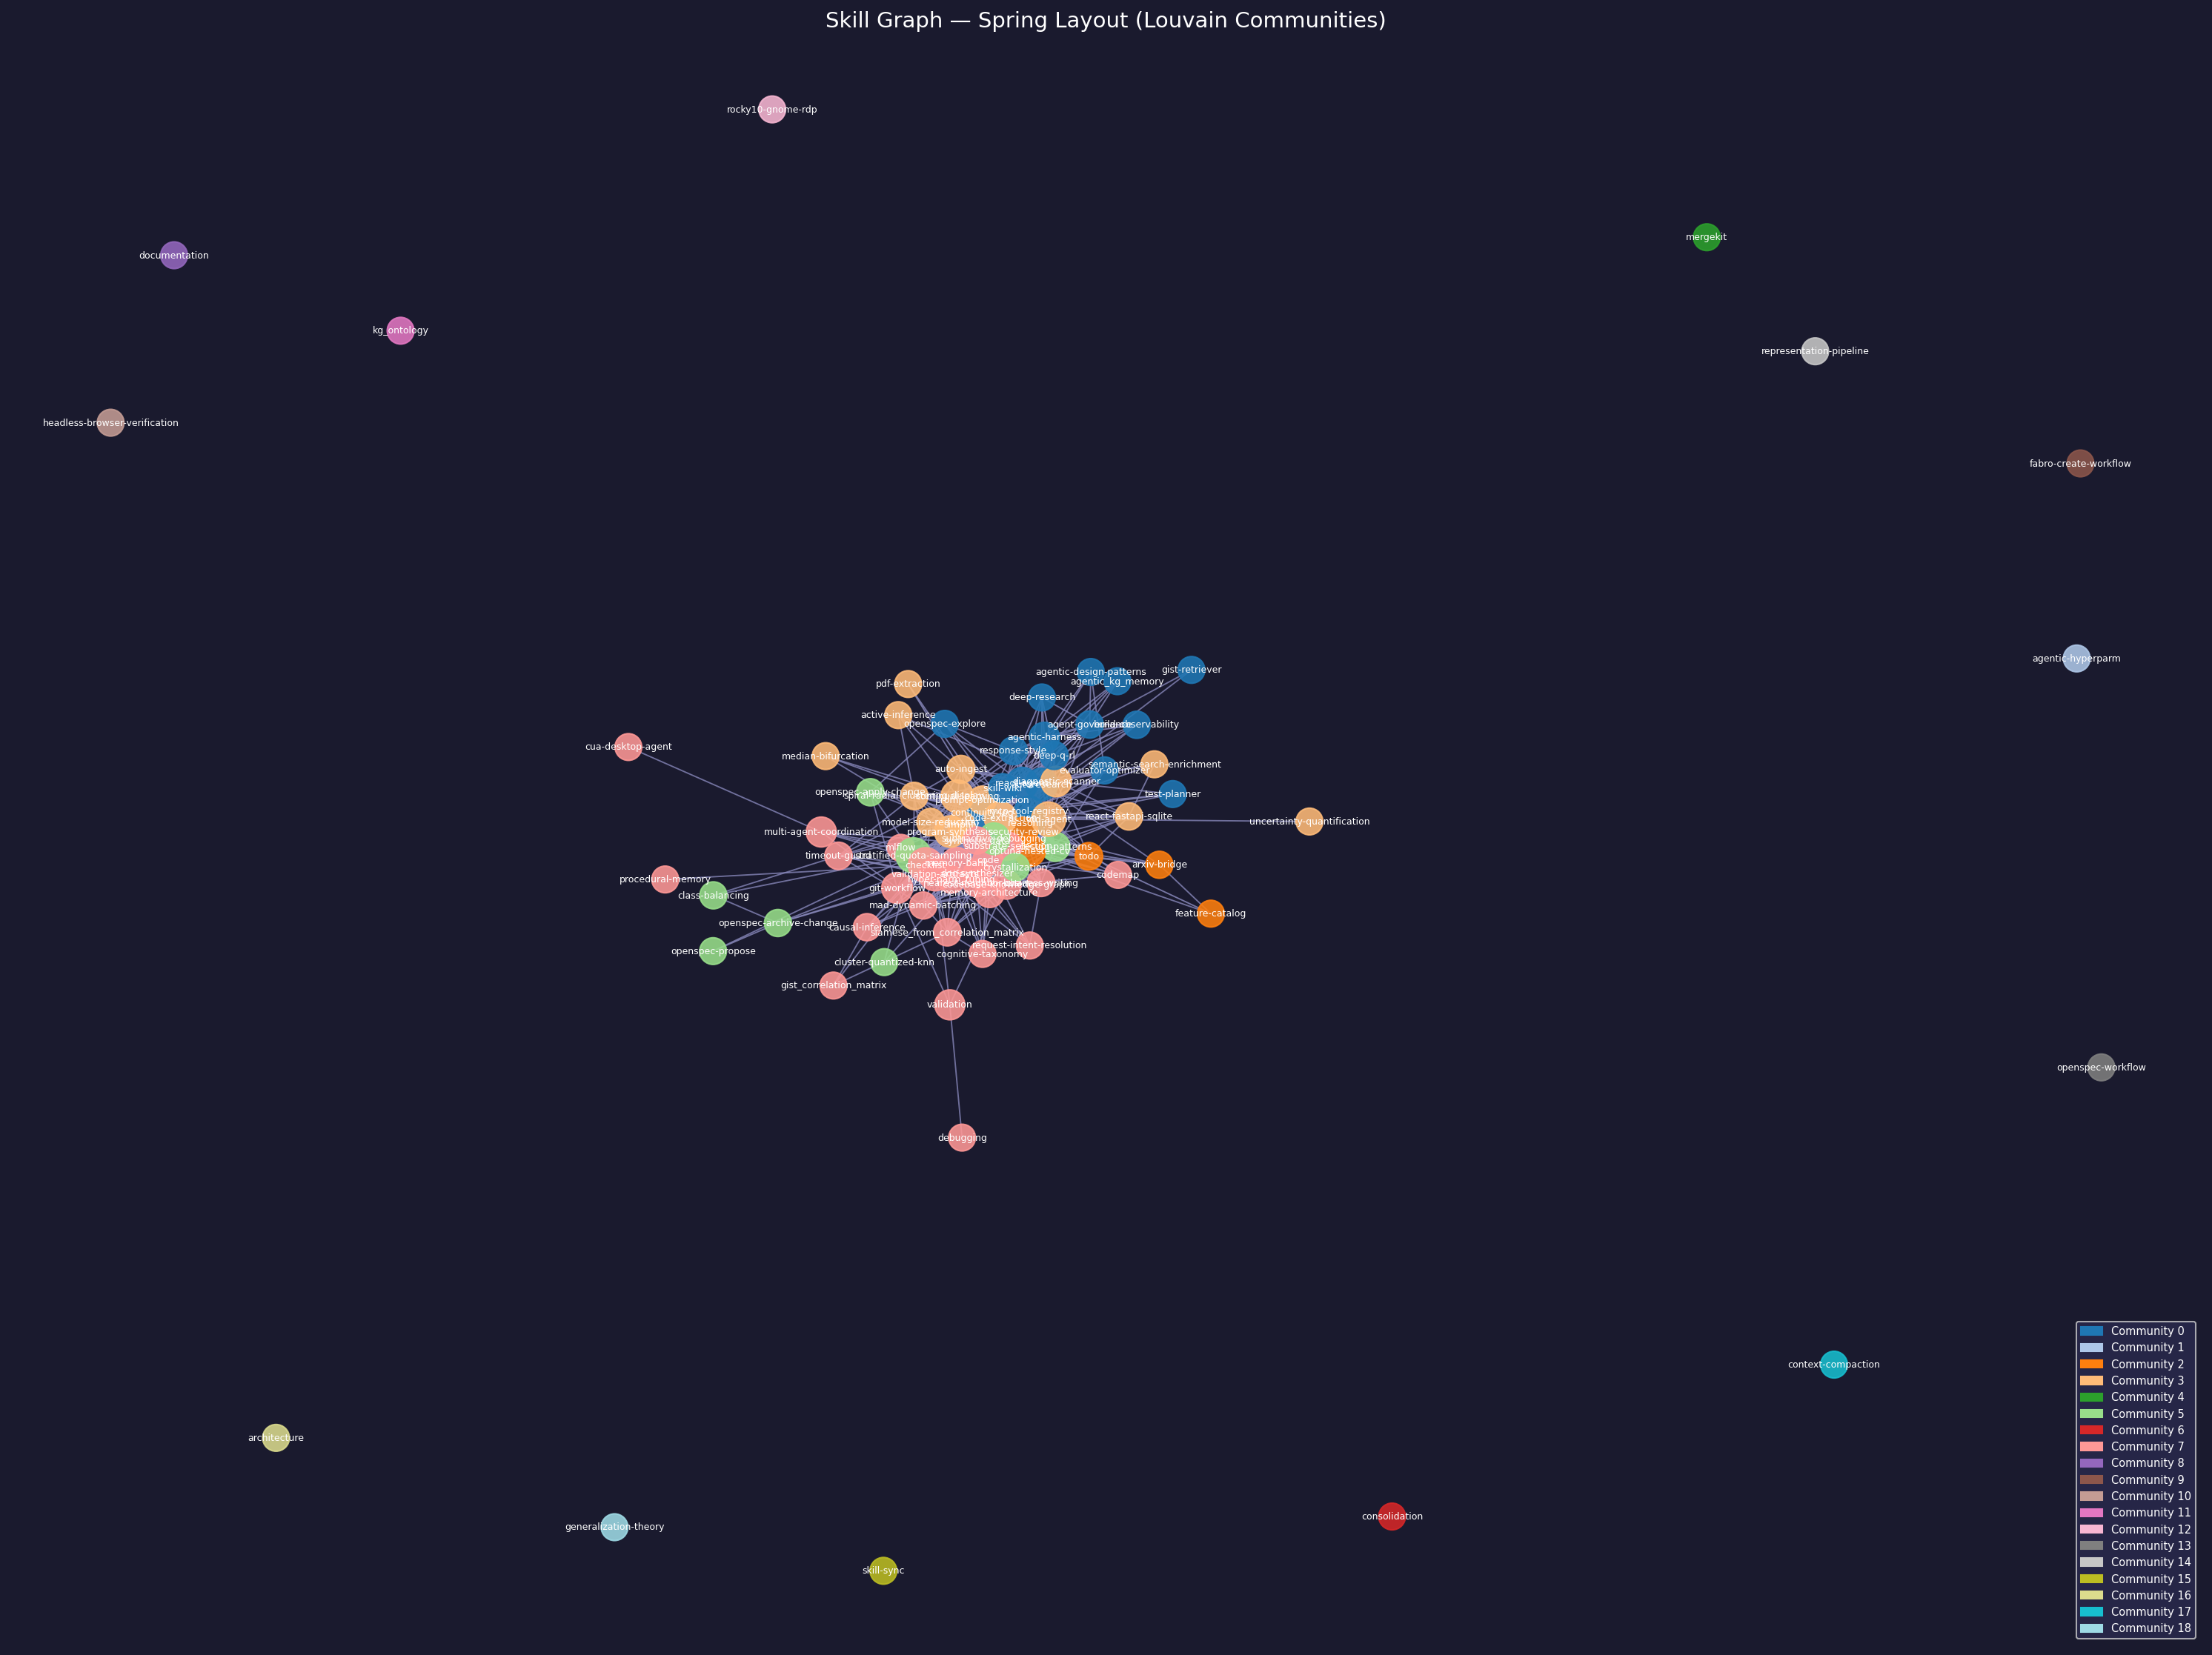
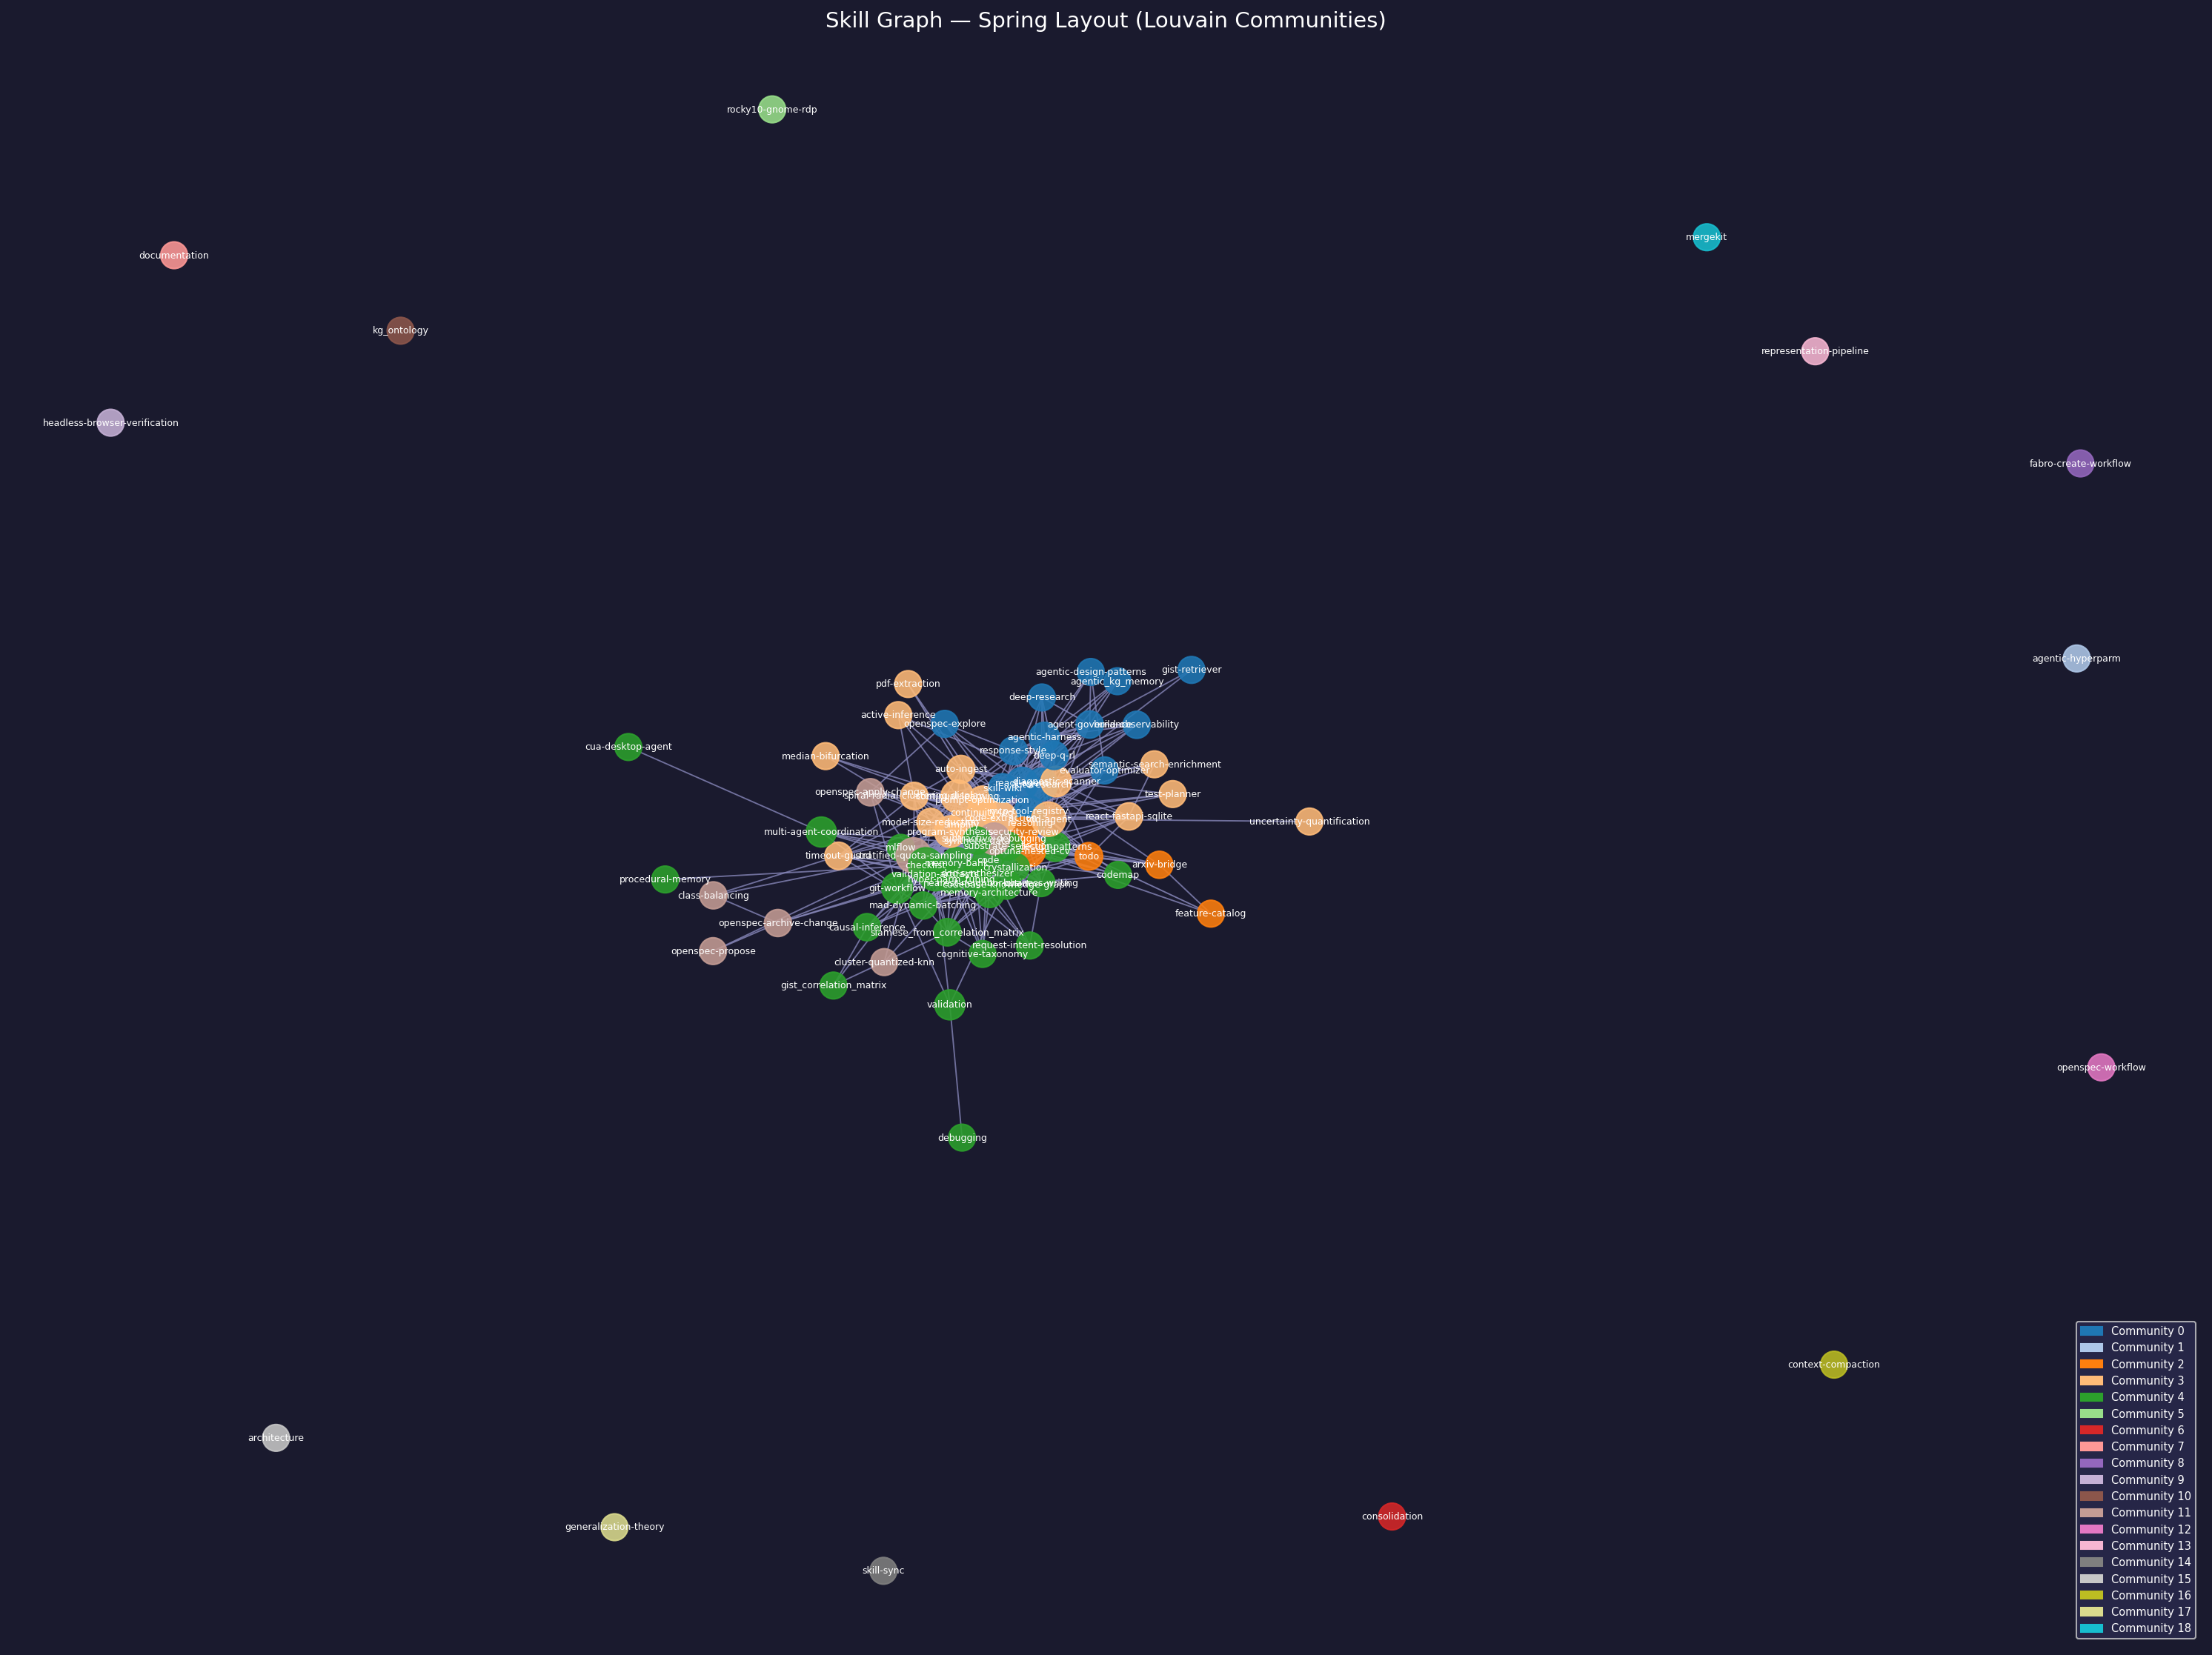
feat(consolidation): add observer LLM disposition to graph analysis
- observer_disposition(): per-community LLM calls for large communities
  (size >= 4); rule-based fallback for singletons and small groups
- _call_llm_observer(): curl-based helper with qwen3.5:0.8b / qwen2.5-coder
  fallback chain; strips <think> reasoning blocks
- --observe flag on CLI; run_graph_analysis(observe=True) kwarg
- Fix print_observer_prompt Unicode arrows -> ASCII (console encoding fix)
- Strip [] brackets from model disposition tokens
- output: graph_disposition.txt alongside graph_report.json and graph.png
- import os was missing from graph_analysis.py (fixes NameError)

diff --git a/consolidation/graph_analysis.py b/consolidation/graph_analysis.py
@@ -21,6 +21,7 @@ Assert:    at least 3 skills with embeddings before analysis begins
 import argparse
 import json
 import math
+import os
 import sqlite3
 import sys
 from pathlib import Path
@@ -441,10 +442,10 @@ COMMUNITIES (sorted by size desc):""")
     print(f"""
 DISPOSITION TASK  (optionally verify against graph.png spring layout):
 For each community, decide:
-  CONSOLIDATE  — high density + low conductance  (redundant → merge/migrate)
-  CROSS-REF    — moderate density                (related → See Also links)
-  KEEP         — low density or high conductance (genuinely separate)
-  INSPECT      — bridge skill (high betweenness) — may be cross-cutting or misclassified
+  CONSOLIDATE  - high density + low conductance  (redundant -> merge/migrate)
+  CROSS-REF    - moderate density                (related -> See Also links)
+  KEEP         - low density or high conductance (genuinely separate)
+  INSPECT      - bridge skill (high betweenness) - may be cross-cutting or misclassified
 
 OUTPUT FORMAT:
   Community <N>: [CONSOLIDATE|CROSS-REF|KEEP|INSPECT]
@@ -464,20 +465,24 @@ def run_graph_analysis(
     threshold_method: str = "significance",
     alpha: float = 0.05,
     sig_correction: str = "bonferroni",
+    observe: bool = False,
 ) -> dict:
     """Full analysis pipeline.
 
     Require:  db_path contains skill_derivations with embedding_json;
               numpy, networkx, sklearn, scipy, matplotlib available
-    Guarantee: returns report dict; writes graph_report.json (+ graph.png if render)
+    Guarantee: returns report dict; writes graph_report.json (+ graph.png if render,
+               + graph_disposition.txt if observe)
     Maintain:  .checkpoint.db is not modified
     Assert:    N >= 3 skills with embeddings
 
     tau:              explicit threshold (overrides threshold_method when provided)
-    threshold_method: 'significance' (default) — Pearson r t-test, Bonferroni/BH corrected
-                      'percentile'   — 85th pct of pairwise cosines (fallback)
+    threshold_method: 'significance' (default) — empirical z-score above background,
+                      Bonferroni/BH corrected; falls back to 85th-pct if too strict
+                      'percentile'   — 85th pct of pairwise cosines (explicit fallback)
     alpha:            significance level for threshold_method='significance' (default 0.05)
     sig_correction:   'bonferroni' (default, conservative) or 'fdr_bh' (Benjamini-Hochberg)
+    observe:          if True, call observer LLM for community disposition after analysis
     """
     out_dir = out_dir or db_path.parent
 
@@ -603,7 +608,197 @@ def run_graph_analysis(
     print(f"Report saved -> {report_path}")
 
     print_observer_prompt(report)
+    if observe:
+        try:
+            observer_disposition(report, out_dir)
+        except RuntimeError as exc:
+            print(f"  [observer] LLM call failed: {exc}")
+            print("  Re-run with Ollama running, or set LLM_BASE_URL to another endpoint.")
     return report
+
+
+# ---------------------------------------------------------------------------
+# Observer LLM disposition
+# ---------------------------------------------------------------------------
+
+def _call_llm_observer(prompt: str, max_tokens: int = 1200) -> str:
+    """Call local Ollama LLM for observer disposition. Returns raw text.
+
+    Require:  Ollama running at LLM_BASE_URL (default http://localhost:11434/v1)
+    Guarantee: returns non-empty text after <think> stripping
+    Maintain:  falls back through model list; raises RuntimeError if all fail
+    """
+    import re as _re
+    import shutil
+    import subprocess
+
+    base_url = os.environ.get("LLM_BASE_URL", "http://localhost:11434/v1")
+    api_key = os.environ.get("LLM_API_KEY", "ollama")
+    env_model = os.environ.get("LLM_MODEL", "qwen3.5:0.8b")
+    models = list(dict.fromkeys(m for m in [env_model, "qwen2.5-coder:1.5b"] if m))
+
+    endpoint = f"{base_url.rstrip('/')}/chat/completions"
+    curl_bin = shutil.which("curl.exe") or shutil.which("curl")
+    if not curl_bin:
+        raise RuntimeError("curl is required for local LLM calls")
+
+    last_err: Exception | None = None
+    for model in models:
+        payload = json.dumps({
+            "model": model,
+            "messages": [{"role": "user", "content": prompt}],
+            "temperature": 0.0,
+            "max_tokens": max_tokens,
+        })
+        try:
+            result = subprocess.run(
+                [curl_bin, "-sS", endpoint,
+                 "-H", "Content-Type: application/json",
+                 "-H", f"Authorization: Bearer {api_key}",
+                 "--data-binary", "@-"],
+                input=payload.encode(),
+                capture_output=True,
+                timeout=120,
+            )
+        except subprocess.TimeoutExpired as exc:
+            last_err = exc
+            continue
+        if result.returncode != 0:
+            last_err = RuntimeError(result.stderr.decode(errors="replace"))
+            continue
+        try:
+            data = json.loads(result.stdout)
+            content = data["choices"][0]["message"]["content"].strip()
+            if not content:
+                last_err = RuntimeError(f"model {model} returned empty content")
+                continue
+            content = _re.sub(r"<think>.*?</think>", "", content, flags=_re.DOTALL).strip()
+            if content:
+                return content
+            last_err = RuntimeError(f"model {model} content empty after think-strip")
+        except (KeyError, json.JSONDecodeError) as exc:
+            last_err = exc
+
+    raise last_err or RuntimeError("No LLM response from observer models")
+
+
+def observer_disposition(report: dict, out_dir: Path) -> str:
+    """Run the observer LLM agent on communities; save + return disposition text.
+
+    Require:  report contains louvain.labels, communities, betweenness_top10
+    Guarantee: writes graph_disposition.txt; returns raw disposition text
+    Maintain:  does not modify report dict or any other output file
+
+    Strategy: singletons and rule-deterministic cases are resolved in Python.
+    Large communities (size >= 4) are sent to the LLM one at a time so the
+    0.8b model can focus on a single community's member names.
+    """
+    from collections import defaultdict
+
+    partition: dict[str, int] = report.get("louvain", {}).get("labels", {})
+    communities_metrics: dict[str, dict] = report.get("communities", {})
+    bridge_set = {
+        entry["skill"]
+        for entry in report.get("betweenness_top10", [])[:7]
+        if entry.get("score", 0) > 0
+    }
+
+    # group members by community id
+    groups: dict[int, list[str]] = defaultdict(list)
+    for skill, cid in partition.items():
+        groups[cid].append(skill)
+
+    disposition_lines: list[str] = []
+
+    for cid in sorted(groups):
+        members = sorted(groups[cid])
+        m = communities_metrics.get(str(cid), {})
+        density = m.get("density", 0.0)
+        conductance = m.get("conductance", 0.0)
+        size = len(members)
+        has_bridge = any(s in bridge_set for s in members)
+        bridge_members = [s for s in members if s in bridge_set]
+
+        # rule-based disposition
+        if size == 1:
+            disp = "INSPECT" if has_bridge else "KEEP"
+            rationale = (
+                f"singleton; bridge skill {bridge_members[0]}" if has_bridge
+                else f"singleton; {members[0]} is isolated, no action needed"
+            )
+            disposition_lines.append(f"Community {cid}: {disp} - {rationale}")
+            continue
+
+        if has_bridge:
+            rule_disp = "INSPECT"
+        elif density > 0.8 and conductance < 0.5:
+            rule_disp = "CONSOLIDATE"
+        elif density >= 0.3:
+            rule_disp = "CROSS-REF"
+        else:
+            rule_disp = "KEEP"
+
+        # for small groups (2-3), rule is sufficient
+        if size < 4:
+            b_note = f"; bridge: {', '.join(bridge_members)}" if bridge_members else ""
+            disposition_lines.append(
+                f"Community {cid}: {rule_disp} - size={size}, "
+                f"density={density:.2f}, conductance={conductance:.2f}{b_note}; "
+                f"members: {', '.join(members)}"
+            )
+            continue
+
+        # large community: ask LLM for name-aware rationale
+        b_note = (
+            f" [bridge skills present: {', '.join(bridge_members)}]"
+            if bridge_members else ""
+        )
+        llm_prompt = (
+            f"Skill library community analysis.\n"
+            f"Community {cid}: size={size}, density={density:.3f}, "
+            f"conductance={conductance:.3f}{b_note}\n"
+            f"Members: {', '.join(members)}\n\n"
+            f"Rule-based suggestion: {rule_disp}\n\n"
+            f"Output exactly ONE line:\n"
+            f"Community {cid}: [CONSOLIDATE|CROSS-REF|KEEP|INSPECT] - <one sentence why>\n"
+            f"Confirm or override the suggestion based on whether the member names "
+            f"represent genuinely overlapping skill domains."
+        )
+        try:
+            raw = _call_llm_observer(llm_prompt, max_tokens=120)
+            # grab the first line that starts with "Community N:" and strip format brackets
+            for line in raw.splitlines():
+                stripped = line.strip()
+                if stripped.startswith(f"Community {cid}"):
+                    # remove any [WORD] bracket wrapping the disposition
+                    import re as _re
+                    stripped = _re.sub(r"\[([A-Z\-]+)\]", r"\1", stripped)
+                    disposition_lines.append(stripped)
+                    break
+            else:
+                # fallback: use rule if model didn't produce expected format
+                disposition_lines.append(
+                    f"Community {cid}: {rule_disp} - (LLM did not produce expected format; "
+                    f"rule-based fallback) density={density:.2f}, conductance={conductance:.2f}"
+                )
+        except RuntimeError as exc:
+            disposition_lines.append(
+                f"Community {cid}: {rule_disp} - (LLM error: {exc}; rule-based fallback)"
+            )
+
+    output = "\n".join(disposition_lines)
+    # replace unicode dashes the model may echo
+    output = output.replace("\u2014", "-").replace("\u2013", "-")
+
+    out_path = out_dir / "graph_disposition.txt"
+    out_path.write_text(output, encoding="utf-8")
+    print(f"Disposition saved -> {out_path}")
+    print("\n" + "=" * 72)
+    print("OBSERVER DISPOSITION")
+    print("=" * 72)
+    print(output)
+    print("=" * 72)
+    return output
 
 
 # ---------------------------------------------------------------------------
@@ -628,6 +823,7 @@ examples:
   python graph_analysis.py --correction fdr_bh    # BH-FDR (more edges)
   python graph_analysis.py --threshold 0.7        # manual tau override
   python graph_analysis.py --method percentile    # 85th-pct fallback
+  python graph_analysis.py --observe              # run LLM observer disposition
 """,
     )
     parser.add_argument(
@@ -659,6 +855,10 @@ examples:
         help="output directory for graph_report.json and graph.png",
     )
     parser.add_argument("--no-plot", action="store_true", help="skip spring layout rendering")
+    parser.add_argument(
+        "--observe", action="store_true",
+        help="run observer LLM (qwen3.5:0.8b via Ollama) to emit community dispositions",
+    )
     args = parser.parse_args()
 
     run_graph_analysis(
@@ -669,6 +869,7 @@ examples:
         threshold_method=args.threshold_method,
         alpha=args.alpha,
         sig_correction=args.sig_correction,
+        observe=args.observe,
     )
 
 